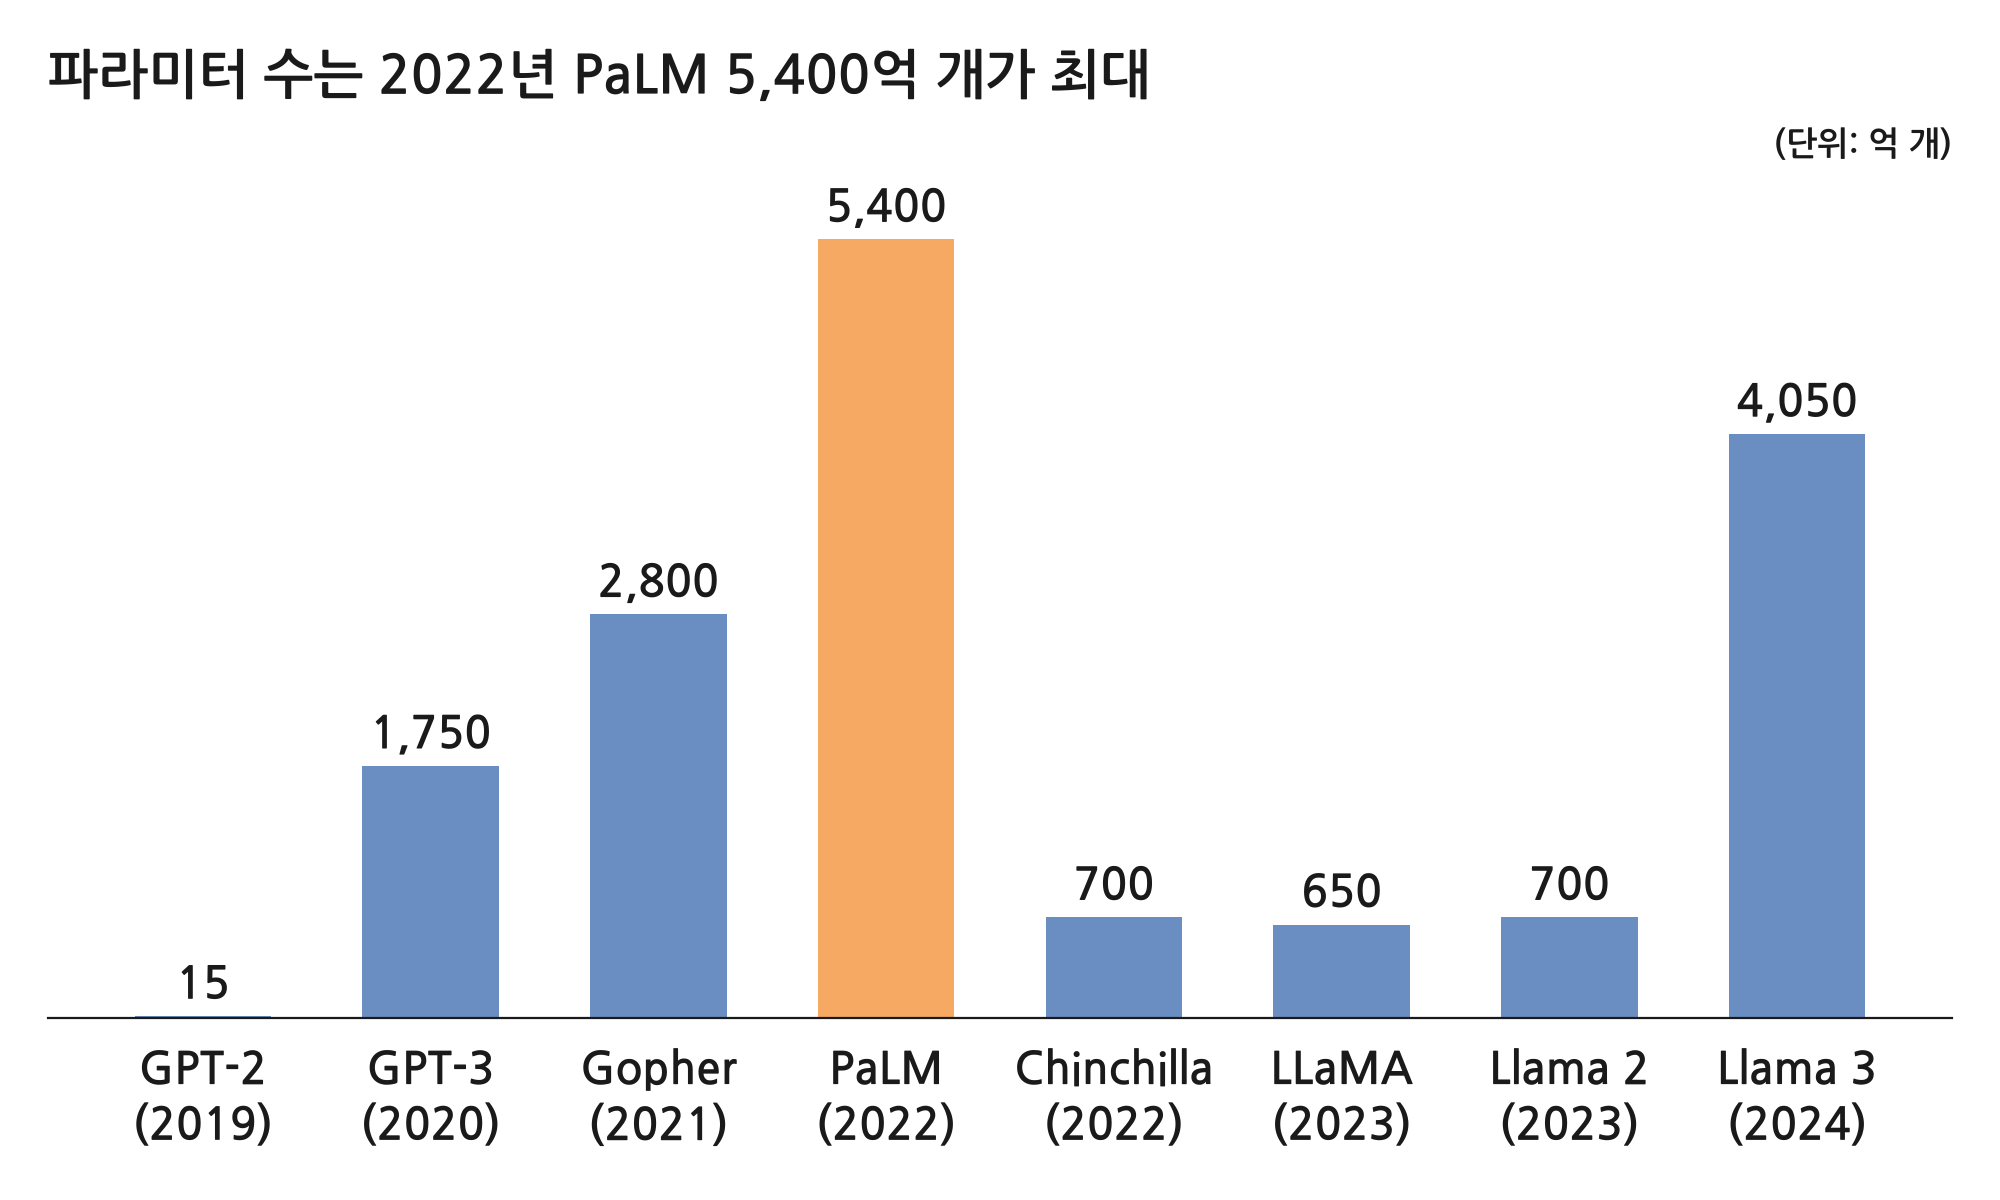
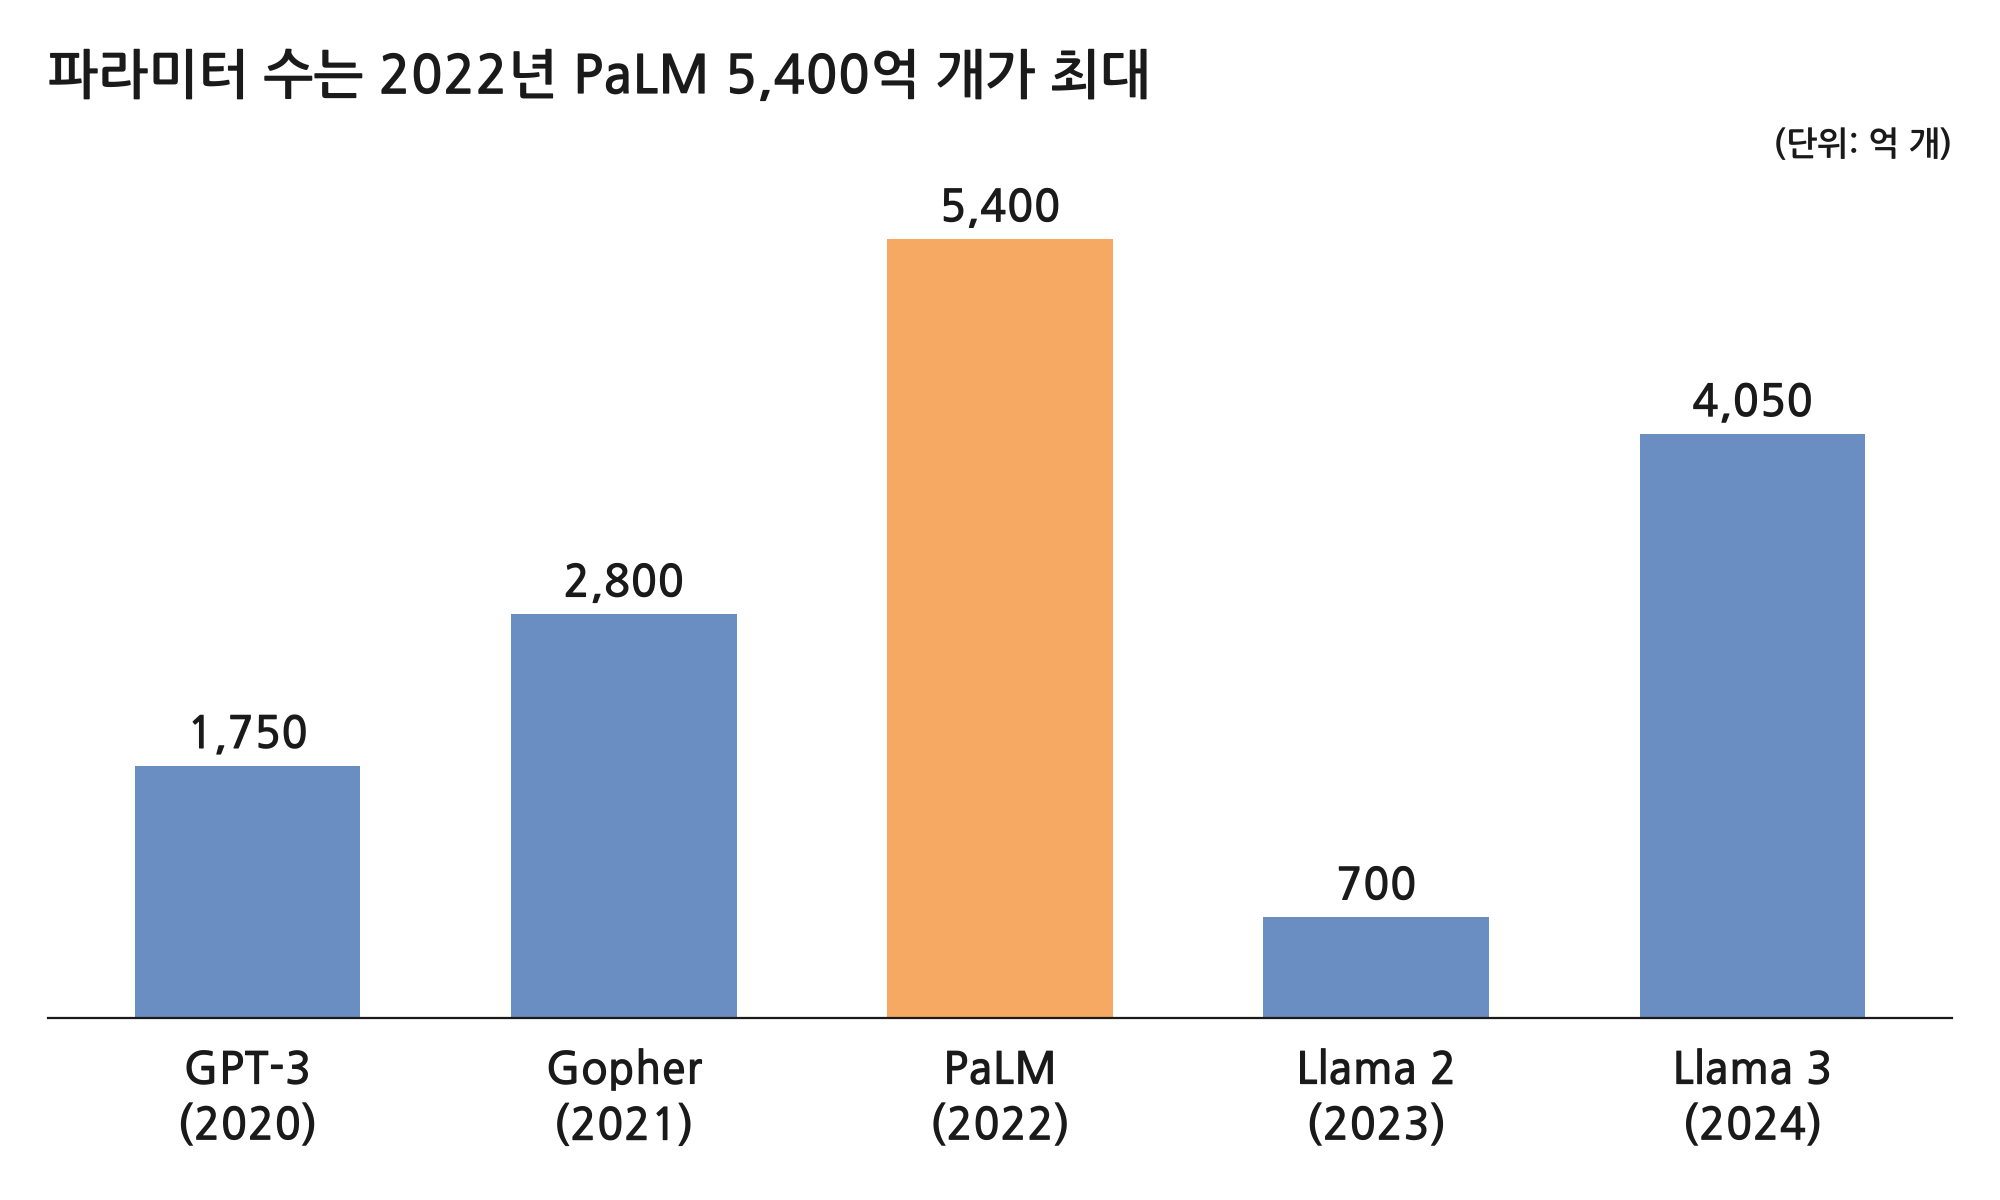
Drop GPT-2, Chinchilla and LLaMA from the chart demo
GPT-2 is far smaller than the other models, and Chinchilla and LLaMA sit
next to Llama 2 at a similar size. These bars added little to the chart
and made it harder to read. The prompt now lists five models with their
sources, and both charts are redrawn from the same five rows. The
baseline annotations that referred to the removed models now describe
the remaining data (GPT-3 to PaLM, about 3x in two years).

Claude-Session: https://claude.ai/code/session_01GGLbaL65V7p6PFmonQcYHU

Changed region(s): [[0.403, 0.1542, 0.93, 0.9558], [0.062, 0.4625, 0.372, 0.9558]]

diff --git a/skills/chart/demo/en/prompt.md b/skills/chart/demo/en/prompt.md
@@ -2,22 +2,16 @@ Make one chart from the data below for an executive report and save it as a PNG.
 
 | Model | Year the paper was published | Parameters (billions) |
 |---|---|---|
-| GPT-2 | 2019 | 1.5 |
 | GPT-3 | 2020 | 175 |
 | Gopher | 2021 | 280 |
 | PaLM | 2022 | 540 |
-| Chinchilla | 2022 | 70 |
-| LLaMA | 2023 | 65 |
 | Llama 2 | 2023 | 70 |
 | Llama 3 | 2024 | 405 |
 
 - Parameter counts are for the largest model reported in each paper
 - Sources
-    + Radford et al.(2019), Language Models are Unsupervised Multitask Learners(https://cdn.openai.com/better-language-models/language_models_are_unsupervised_multitask_learners.pdf)
     + Brown et al.(2020), Language Models are Few-Shot Learners(https://arxiv.org/abs/2005.14165)
     + Rae et al.(2021), Scaling Language Models: Methods, Analysis & Insights from Training Gopher(https://arxiv.org/abs/2112.11446)
     + Chowdhery et al.(2022), PaLM: Scaling Language Modeling with Pathways(https://arxiv.org/abs/2204.02311)
-    + Hoffmann et al.(2022), Training Compute-Optimal Large Language Models(https://arxiv.org/abs/2203.15556)
-    + Touvron et al.(2023), LLaMA: Open and Efficient Foundation Language Models(https://arxiv.org/abs/2302.13971)
     + Touvron et al.(2023), Llama 2: Open Foundation and Fine-Tuned Chat Models(https://arxiv.org/abs/2307.09288)
     + Grattafiori et al.(2024), The Llama 3 Herd of Models(https://arxiv.org/abs/2407.21783)

diff --git a/skills/chart/demo/ko/prompt.md b/skills/chart/demo/ko/prompt.md
@@ -2,22 +2,16 @@
 
 | 모델 | 논문 공개 연도 | 파라미터 수(10억 개) |
 |---|---|---|
-| GPT-2 | 2019 | 1.5 |
 | GPT-3 | 2020 | 175 |
 | Gopher | 2021 | 280 |
 | PaLM | 2022 | 540 |
-| Chinchilla | 2022 | 70 |
-| LLaMA | 2023 | 65 |
 | Llama 2 | 2023 | 70 |
 | Llama 3 | 2024 | 405 |
 
 - 파라미터 수는 각 논문이 밝힌 최대 모델 기준이야
 - 출처
-    + Radford et al.(2019), Language Models are Unsupervised Multitask Learners(https://cdn.openai.com/better-language-models/language_models_are_unsupervised_multitask_learners.pdf)
     + Brown et al.(2020), Language Models are Few-Shot Learners(https://arxiv.org/abs/2005.14165)
     + Rae et al.(2021), Scaling Language Models: Methods, Analysis & Insights from Training Gopher(https://arxiv.org/abs/2112.11446)
     + Chowdhery et al.(2022), PaLM: Scaling Language Modeling with Pathways(https://arxiv.org/abs/2204.02311)
-    + Hoffmann et al.(2022), Training Compute-Optimal Large Language Models(https://arxiv.org/abs/2203.15556)
-    + Touvron et al.(2023), LLaMA: Open and Efficient Foundation Language Models(https://arxiv.org/abs/2302.13971)
     + Touvron et al.(2023), Llama 2: Open Foundation and Fine-Tuned Chat Models(https://arxiv.org/abs/2307.09288)
     + Grattafiori et al.(2024), The Llama 3 Herd of Models(https://arxiv.org/abs/2407.21783)
